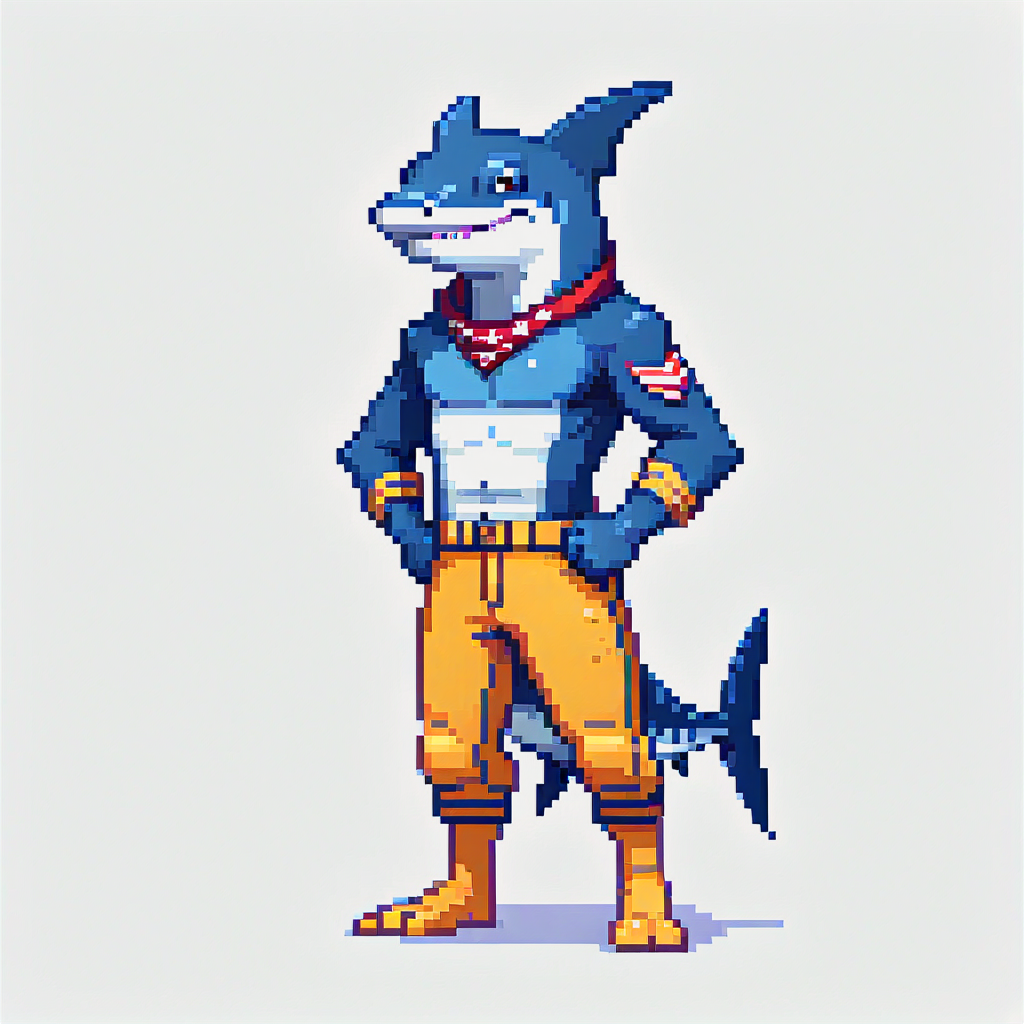
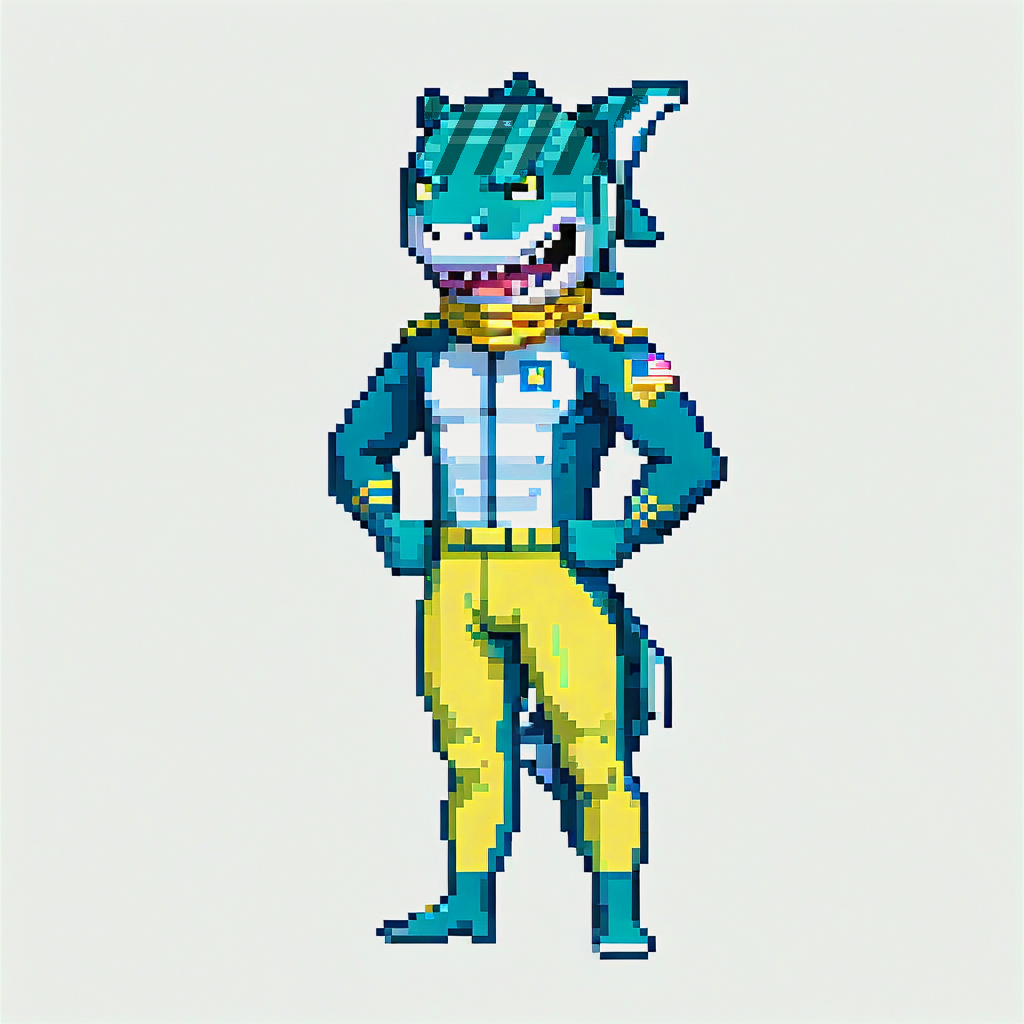
T-120: the AQUA admin as a tiger shark (engine 1e50476ad) -- seed 13017, stripes painted on the head since the model draws none

Changed region(s): [[0.3125, 0.0625, 0.7812, 0.9375]]

diff --git a/tools/gbachar.py b/tools/gbachar.py
@@ -750,7 +750,7 @@ JOBS = {
                         dst="engineGba/graphics/trainers/front_pics/magma_leader_maxie_front_pic.png",
                         pal="engineGba/graphics/trainers/palettes/magma_leader_maxie.pal",
                         size=(64, 64), colours=15, base=1, palsize=16, hue=False),
-    "h_aqua_admin_m": dict(src="gfx/characters/hoenn/aqua_admin_m.png",     # a hammerhead shark man, redrawn (seed 13004)
+    "h_aqua_admin_m": dict(src="gfx/characters/hoenn/aqua_admin_m.png",     # a tiger shark (the user, 2026-10-13): seed 13017, stripes painted on the head -- the model draws none
                         dst="engineGba/graphics/trainers/front_pics/aqua_admin_m_front_pic.png",
                         pal="engineGba/graphics/trainers/palettes/aqua_admin_m.pal",
                         size=(64, 64), colours=15, base=1, palsize=16, hue=False),

diff --git a/qa/screenshots/2026-10-13/README.md b/qa/screenshots/2026-10-13/README.md
@@ -1,0 +1,9 @@
+# QA screenshots, 2026-10-13
+
+In the order they were taken, each with the caption it was sent with. Every word in them is a DRAFT until approved.
+
+### 13Oct2026 - T120 - AQUA admin as a tiger shark - 1
+
+T-120: the AQUA admin as a tiger shark (left), beside ARCHIE's great white
+
+![13Oct2026 - T120 - AQUA admin as a tiger shark - 1](13Oct2026%20-%20T120%20-%20AQUA%20admin%20as%20a%20tiger%20shark%20-%201.png)
